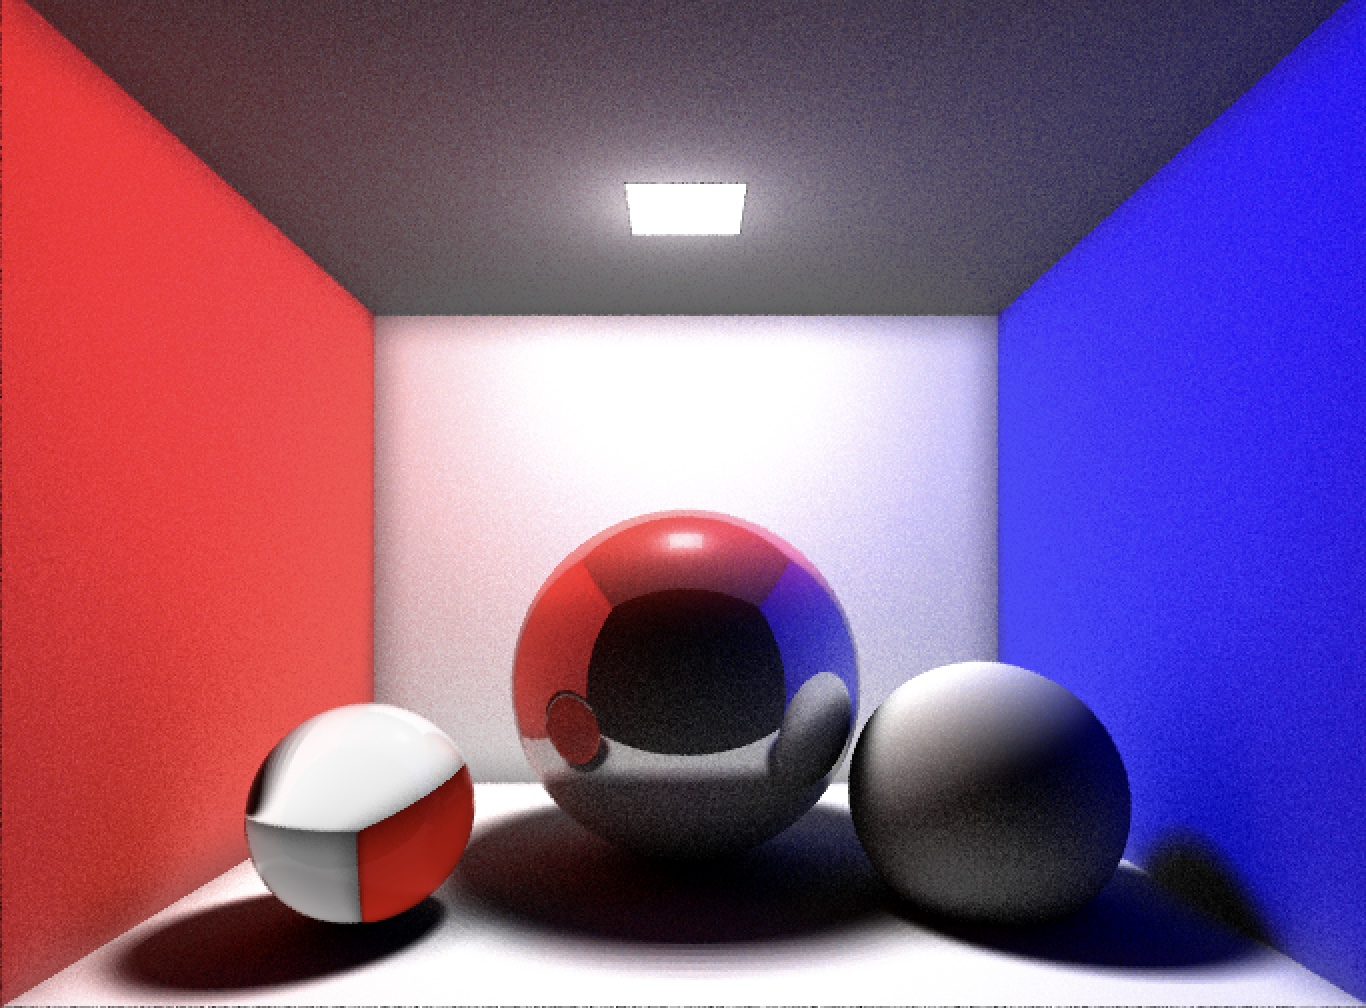
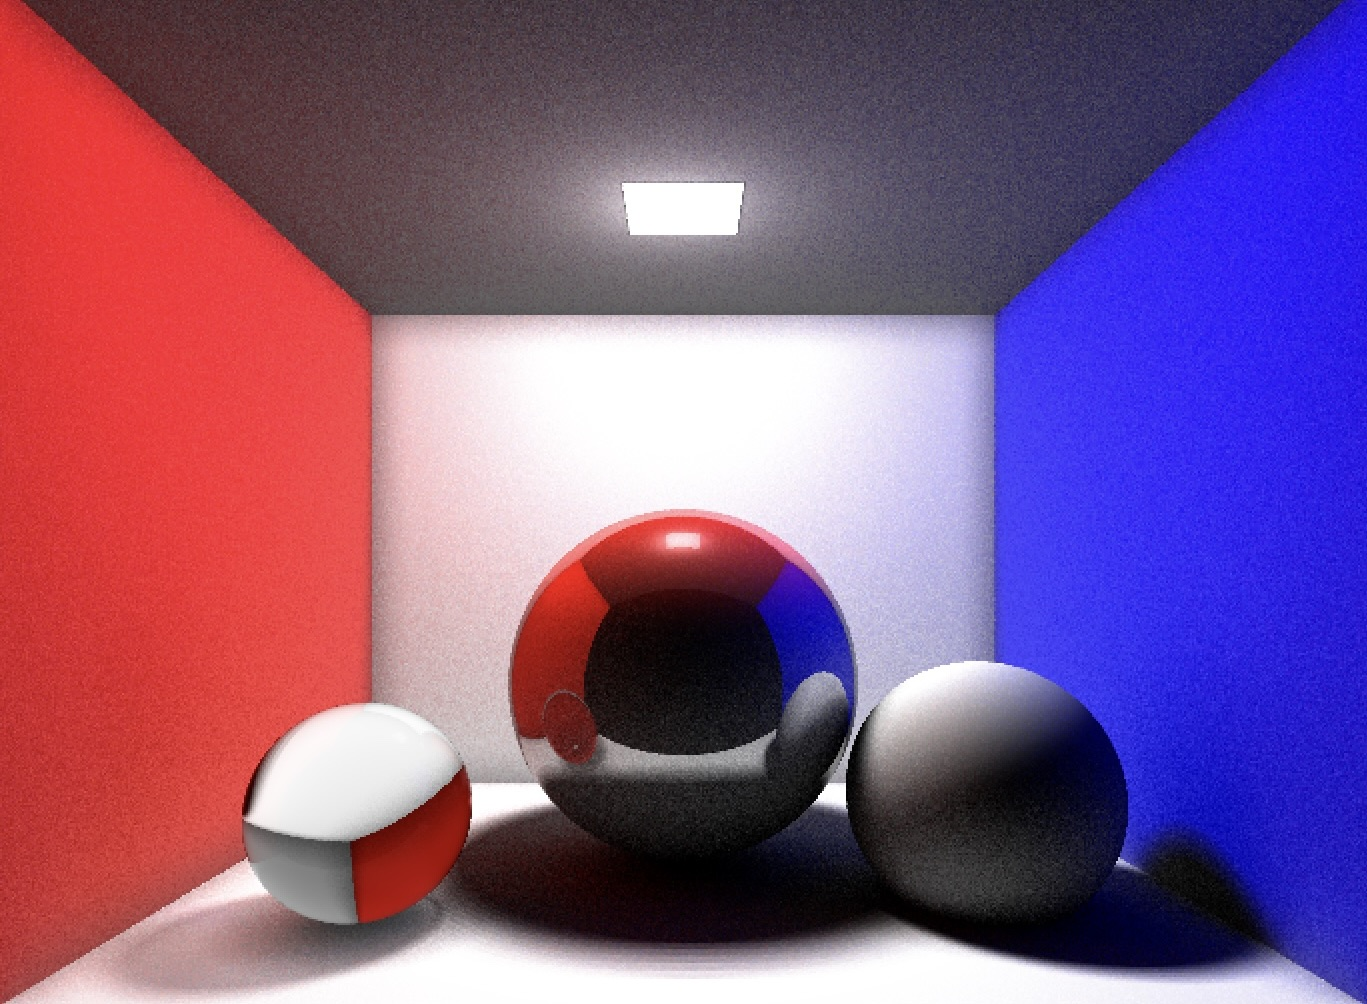
update

diff --git a/css/style.css b/css/style.css
@@ -13,7 +13,7 @@ h1{
 }
 
 /*Text color*/
-p, a{
+p, a, li{
     color: #dfdfdf;
     max-width: 600px;
     margin: 0 auto 20px;
@@ -49,10 +49,19 @@ p, a{
 }
 /** IMAGE WRAPPER */
 
-.image-wrapper {
+.image-wrapper-21 {
     position: relative;
-    width: 400px;
-    height: 225px;
+    width: 600px;
+    height: 300px;
+    transition: transform 0.5s ease-in-out;
+    transform-origin: center center; /* scale from center */
+    z-index: 1; /* so it appears above other elements */        
+}
+
+.image-wrapper-31 {
+    position: relative;
+    width: 600px;
+    height: 260px;
     transition: transform 0.5s ease-in-out;
     transform-origin: center center; /* scale from center */
     z-index: 1; /* so it appears above other elements */        
@@ -82,4 +91,11 @@ iframe {
     max-width: 400px;
     margin: 0 auto;
     padding: 20px;
+}
+
+
+ul {
+  list-style-type: none;
+  padding: 0; /* Optional: Removes the default left padding/indentation */
+  margin: 0;  /* Optional: Removes default margins */
 }

diff --git a/index.html b/index.html
@@ -325,7 +325,10 @@
 
     <!-- RAYTRACER -->
     <div class="container">
-        <div class="video-wrapper">
+        
+        
+        <div class="image-wrapper-21">
+        <!-- <div class="video-wrapper">-->
             <!-- Overlay zum Verdecken des Videos -->
             <div id="overlay-8" class="overlay"></div>
         </div>
@@ -334,10 +337,11 @@
             <h3>CPU Pathtracer</h3>
             <p>
                 I developed a path tracer as part of a university computer graphics course.
+                It includes features like: Global Illumination - Monte Carlo Sampling, Soft Shadows and Ambient Occlusion.
             </p>
-
             <div class="barHorizontal">
                 <div class="skillbutton">Computergraphics</div>
+                <div class="skillbutton">Linear & 3D Algebra</div>
                 <div class="skillbutton">OOP Java</div>
             </div>
         </div>

diff --git a/JSHelper/main/ImageStackGenerate.js b/JSHelper/main/ImageStackGenerate.js
@@ -37,7 +37,7 @@ const ImageStackGenerate = {
         // HTML generieren
         document.getElementById(idToAddTo).innerHTML += `
             <div class="container" id="${stackIdElement}">
-                <div class="image-wrapper">
+                <div class="image-wrapper-31">
                     <div id="${overlayId}" class="overlay"></div>
                     <div class="buttonStyle left" onclick="ImageStackGenerate.InternalShowImage('-', '${overlayId}')">&lt;</div>
                     <div class="buttonStyle right" onclick="ImageStackGenerate.InternalShowImage('+', '${overlayId}')">&gt;</div>